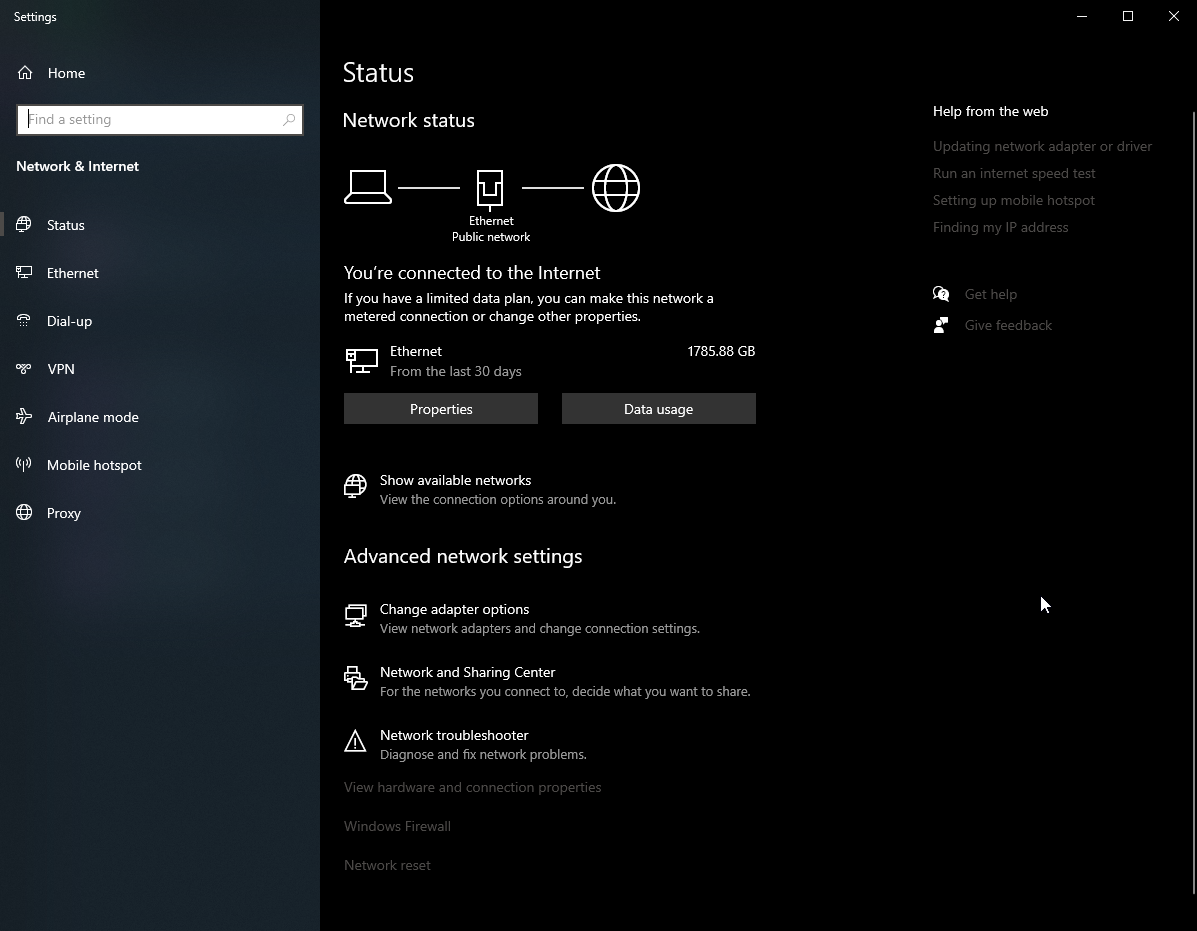
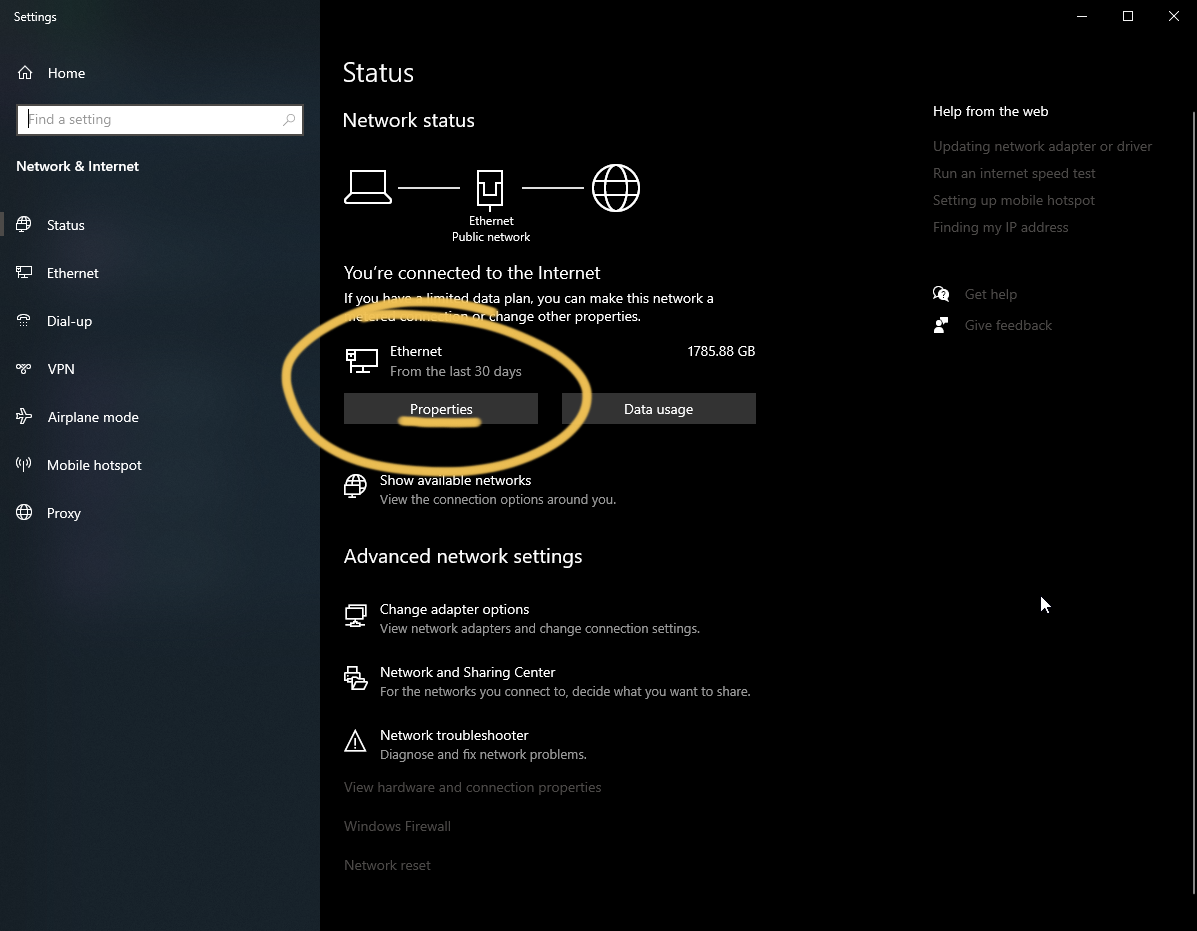
test

diff --git a/_sass/_variables.scss b/_sass/_variables.scss
@@ -52,7 +52,7 @@ $monospace-code: ui-monospace, 'Cascadia Code', 'Source Code Pro', Menlo, Consol
 $handwritten: 'Segoe Print', 'Bradley Hand', Chilanka, TSCu_Comic, casual, cursive;
 
 /* Defaults used in Minimal mistakes */
-$default-sans-serif: "Noto Sans Thai", -apple-system, BlinkMacSystemFont, "Roboto", "Segoe UI", "Helvetica Neue", "Lucida Grande", Arial, sans-serif;
+$default-sans-serif: "Google Sans", -apple-system, BlinkMacSystemFont, "Roboto", "Segoe UI", "Helvetica Neue", "Lucida Grande", Arial, sans-serif;
 $default-serif: Georgia, Times, serif;
 $default-monospace: Monaco, Consolas, "Lucida Console", monospace;
 

diff --git a/_pages/slimevr-docs/onboarding/setup-wizard.md b/_pages/slimevr-docs/onboarding/setup-wizard.md
@@ -80,3 +80,6 @@ cr. Spazzwan@slimevr discord official (Temp, till i can make my own img guide wi
 
 ![slimevronboard-1](/assets/images/slimeonboard/setup13.png){: .align-center}
 <br>
+
+{: .notice--info}
+ขั้นตอนถัดไปเราจะไล่ทำตามที่รายการแนะนำของ SlimeVR แนะนำให้เราตั้ง คลิกที่นี่ได้เลย: [ไปที่รายการตั้งค่าแทร็กเกอร์]({% link _pages/slimevr-docs/onboarding/tracking-checklist.md %}){: .btn .btn--primary}
